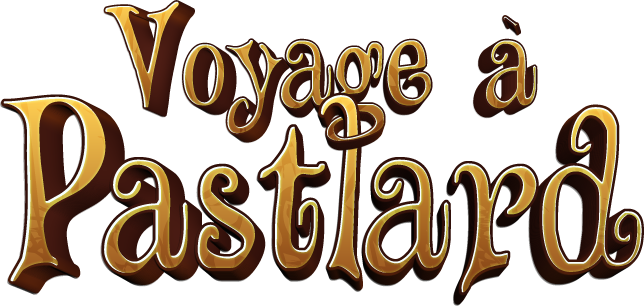
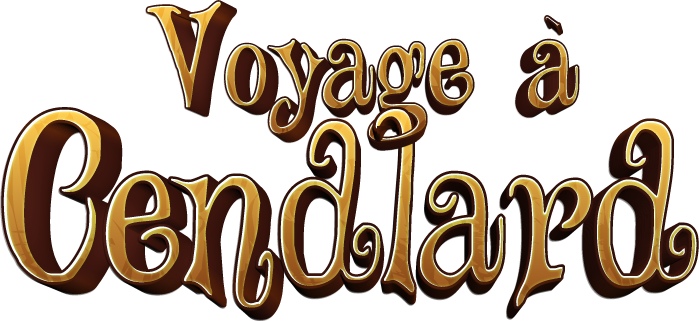
Mise à jour des dépendances.

diff --git a/lib/widgets/main_widget.dart b/lib/widgets/main_widget.dart
@@ -2,8 +2,7 @@ import 'package:animate_do/animate_do.dart';
 import 'package:escape_game_kit/escape_game_kit.dart';
 import 'package:flutter/material.dart';
 import 'package:flutter_localizations/flutter_localizations.dart';
-import 'package:flutter_svg/flutter_svg.dart';
-import 'package:voyage_a_pastlard/widgets/title_screen.dart';
+import 'package:voyage_a_cendlard/widgets/title_screen.dart';
 
 final GlobalKey<NavigatorState> navigatorKey = GlobalKey<NavigatorState>();
 
@@ -32,22 +31,22 @@ class _MainWidgetState extends State<MainWidget> {
     ]) {
       precacheImage(AssetImage(asset), context);
     }
-    for (String asset in [
-      // 'assets/interactables/arrow.svg',
-      // 'assets/objects/eight-key.svg',
-      // 'assets/objects/clover-key.svg',
-      // 'assets/objects/mouth-key.svg',
-      // 'assets/padlocks/caesar-1.svg',
-      // 'assets/padlocks/caesar-2.svg',
-    ]) {
-      precachePicture(ExactAssetPicture(SvgPicture.svgStringDecoderBuilder, asset), context);
-    }
+    // for (String asset in [
+    //   'assets/interactables/arrow.svg',
+    //   'assets/objects/eight-key.svg',
+    //   'assets/objects/clover-key.svg',
+    //   'assets/objects/mouth-key.svg',
+    //   'assets/padlocks/caesar-1.svg',
+    //   'assets/padlocks/caesar-2.svg',
+    // ]) {
+    //   precachePicture(ExactAssetPicture(SvgPicture.svgStringDecoderBuilder, asset), context);
+    // }
   }
 
   @override
   Widget build(BuildContext context) => MaterialApp(
         navigatorKey: navigatorKey,
-        title: 'Voyage à Pastlard',
+        title: 'Voyage à Cendlard',
         theme: ThemeData(
           primarySwatch: Colors.deepPurple,
           scrollbarTheme: ScrollbarThemeData(thumbVisibility: MaterialStateProperty.all(true)),
@@ -117,7 +116,7 @@ mathématicus !''',
                         ),
                       ),
                     ],
-                    style: Theme.of(context).textTheme.bodyText2?.copyWith(
+                    style: Theme.of(context).textTheme.bodyMedium?.copyWith(
                           color: Colors.white,
                         ),
                   ),

diff --git a/lib/game/rooms/bedroom.dart b/lib/game/rooms/bedroom.dart
@@ -1,10 +1,10 @@
 import 'dart:math';
 
 import 'package:escape_game_kit/escape_game_kit.dart';
-import 'package:voyage_a_pastlard/game/objects/hericorne_claw.dart';
-import 'package:voyage_a_pastlard/game/rooms/lobby.dart';
-import 'package:voyage_a_pastlard/widgets/cauldron_dialog_content.dart';
-import 'package:voyage_a_pastlard/widgets/object_found_dialog_content.dart';
+import 'package:voyage_a_cendlard/game/objects/hericorne_claw.dart';
+import 'package:voyage_a_cendlard/game/rooms/lobby.dart';
+import 'package:voyage_a_cendlard/widgets/cauldron_dialog_content.dart';
+import 'package:voyage_a_cendlard/widgets/object_found_dialog_content.dart';
 
 class BedroomRoom extends Room {
   static const String roomId = 'bedroom';
@@ -18,9 +18,9 @@ class BedroomRoom extends Room {
                 content: '''<h1>🪄 Bienvenue !</h1>
                 <p>
                   <em>
-                    Vous êtes élève à l'école Pastlard, un établissement magique peuplé de jeunes apprentis sorciers.
+                    Vous êtes élève à l'école Cendlard, un établissement magique peuplé de jeunes apprentis sorciers.
                     <br>Vous vous êtes réveillé en pleine nuit car, demain, vous avez interrogation de mathématicus,
-                    la matière tant redoutée par les élèves de Pastlard... Et vous n'avez pas du tout révisé !
+                    la matière tant redoutée par les élèves de Cendlard... Et vous n'avez pas du tout révisé !
                   </em>
                 </p>
                 <p>~</p>

diff --git a/lib/game/game.dart b/lib/game/game.dart
@@ -1,16 +1,16 @@
 import 'package:escape_game_kit/escape_game_kit.dart';
-import 'package:voyage_a_pastlard/game/rooms/abandoned_classroom.dart';
-import 'package:voyage_a_pastlard/game/rooms/abandoned_library.dart';
-import 'package:voyage_a_pastlard/game/rooms/bedroom.dart';
-import 'package:voyage_a_pastlard/game/rooms/forgiven_forest.dart';
-import 'package:voyage_a_pastlard/game/rooms/lobby.dart';
-import 'package:voyage_a_pastlard/game/rooms/principal_office.dart';
-import 'package:voyage_a_pastlard/game/rooms/storage.dart';
-import 'package:voyage_a_pastlard/game/rooms/teacher_bedroom.dart';
-import 'package:voyage_a_pastlard/game/rooms/teachers_bedrooms.dart';
+import 'package:voyage_a_cendlard/game/rooms/abandoned_classroom.dart';
+import 'package:voyage_a_cendlard/game/rooms/abandoned_library.dart';
+import 'package:voyage_a_cendlard/game/rooms/bedroom.dart';
+import 'package:voyage_a_cendlard/game/rooms/forgiven_forest.dart';
+import 'package:voyage_a_cendlard/game/rooms/lobby.dart';
+import 'package:voyage_a_cendlard/game/rooms/principal_office.dart';
+import 'package:voyage_a_cendlard/game/rooms/storage.dart';
+import 'package:voyage_a_cendlard/game/rooms/teacher_bedroom.dart';
+import 'package:voyage_a_cendlard/game/rooms/teachers_bedrooms.dart';
 
-class VoyageAPastlardGame extends EscapeGame {
-  VoyageAPastlardGame() : super(
+class VoyageACendlardGame extends EscapeGame {
+  VoyageACendlardGame() : super(
     inventory: Inventory(
       title: 'Inventaire',
       emptyMessage: "Il n'y a rien dans votre inventaire."

diff --git a/lib/game/rooms/principal_office.dart b/lib/game/rooms/principal_office.dart
@@ -1,11 +1,11 @@
 import 'package:escape_game_kit/escape_game_kit.dart';
 import 'package:flutter/material.dart';
 import 'package:flutter_widget_from_html_core/flutter_widget_from_html_core.dart';
-import 'package:voyage_a_pastlard/game/objects/teachers_rooms_key.dart';
-import 'package:voyage_a_pastlard/game/rooms/abandoned_classroom.dart';
-import 'package:voyage_a_pastlard/game/rooms/lobby.dart';
-import 'package:voyage_a_pastlard/game/rooms/storage.dart';
-import 'package:voyage_a_pastlard/widgets/object_found_dialog_content.dart';
+import 'package:voyage_a_cendlard/game/objects/teachers_rooms_key.dart';
+import 'package:voyage_a_cendlard/game/rooms/abandoned_classroom.dart';
+import 'package:voyage_a_cendlard/game/rooms/lobby.dart';
+import 'package:voyage_a_cendlard/game/rooms/storage.dart';
+import 'package:voyage_a_cendlard/widgets/object_found_dialog_content.dart';
 
 class PrincipalOfficeRoom extends Room {
   static const String roomId = 'principal-office';
@@ -65,7 +65,7 @@ class PrincipalOfficeRoom extends Room {
                           child: HtmlWidget('''
                             <div align="center">
                               <p>
-                                <em>Il y a une post-it sur le bureau, mais le texte est effacé par endroits...</em>
+                                <em>Il y a un post-it sur le bureau, mais le texte est effacé par endroits...</em>
                               </p>
                               <p>~</p>
                             </div>

diff --git a/lib/main.dart b/lib/main.dart
@@ -1,12 +1,12 @@
 import 'package:escape_game_kit/escape_game_kit.dart';
 import 'package:flutter/foundation.dart';
 import 'package:flutter/material.dart';
-import 'package:voyage_a_pastlard/game/game.dart';
-import 'package:voyage_a_pastlard/game/padlocks/equations_padlock.dart';
-import 'package:voyage_a_pastlard/game/padlocks/find_x_padlock.dart';
-import 'package:voyage_a_pastlard/game/padlocks/text_padlock.dart';
-import 'package:voyage_a_pastlard/game/padlocks/valid_object_padlock.dart';
-import 'package:voyage_a_pastlard/widgets/main_widget.dart';
+import 'package:voyage_a_cendlard/game/game.dart';
+import 'package:voyage_a_cendlard/game/padlocks/equations_padlock.dart';
+import 'package:voyage_a_cendlard/game/padlocks/find_x_padlock.dart';
+import 'package:voyage_a_cendlard/game/padlocks/text_padlock.dart';
+import 'package:voyage_a_cendlard/game/padlocks/valid_object_padlock.dart';
+import 'package:voyage_a_cendlard/widgets/main_widget.dart';
 import 'package:window_manager/window_manager.dart';
 
 void main() {
@@ -15,7 +15,7 @@ void main() {
     adjustWindowSize();
   }
   registerPadlocks();
-  VoyageAPastlardGame escapeGame = VoyageAPastlardGame();
+  VoyageACendlardGame escapeGame = VoyageACendlardGame();
   runApp(MainWidget(escapeGame: escapeGame));
 }
 

diff --git a/lib/widgets/cauldron_dialog_content.dart b/lib/widgets/cauldron_dialog_content.dart
@@ -3,13 +3,13 @@ import 'package:flutter/foundation.dart';
 import 'package:flutter/material.dart';
 import 'package:flutter_svg/flutter_svg.dart';
 import 'package:flutter_widget_from_html_core/flutter_widget_from_html_core.dart';
-import 'package:voyage_a_pastlard/game/objects/champinum_enigma.dart';
-import 'package:voyage_a_pastlard/game/objects/enchanted_spices.dart';
-import 'package:voyage_a_pastlard/game/objects/happiness_mirror.dart';
-import 'package:voyage_a_pastlard/game/objects/hericorne_claw.dart';
-import 'package:voyage_a_pastlard/game/objects/ingredient.dart';
-import 'package:voyage_a_pastlard/game/objects/scaribo.dart';
-import 'package:voyage_a_pastlard/game/objects/sleeping_potion.dart';
+import 'package:voyage_a_cendlard/game/objects/champinum_enigma.dart';
+import 'package:voyage_a_cendlard/game/objects/enchanted_spices.dart';
+import 'package:voyage_a_cendlard/game/objects/happiness_mirror.dart';
+import 'package:voyage_a_cendlard/game/objects/hericorne_claw.dart';
+import 'package:voyage_a_cendlard/game/objects/ingredient.dart';
+import 'package:voyage_a_cendlard/game/objects/scaribo.dart';
+import 'package:voyage_a_cendlard/game/objects/sleeping_potion.dart';
 
 class CauldronDialogContent extends StatefulWidget {
   final Inventory inventory;

diff --git a/lib/game/rooms/lobby.dart b/lib/game/rooms/lobby.dart
@@ -1,11 +1,11 @@
 import 'package:escape_game_kit/escape_game_kit.dart';
-import 'package:voyage_a_pastlard/game/objects/teachers_rooms_key.dart';
-import 'package:voyage_a_pastlard/game/padlocks/equations_padlock.dart';
-import 'package:voyage_a_pastlard/game/padlocks/text_padlock.dart';
-import 'package:voyage_a_pastlard/game/rooms/bedroom.dart';
-import 'package:voyage_a_pastlard/game/rooms/forgiven_forest.dart';
-import 'package:voyage_a_pastlard/game/rooms/principal_office.dart';
-import 'package:voyage_a_pastlard/game/rooms/teachers_bedrooms.dart';
+import 'package:voyage_a_cendlard/game/objects/teachers_rooms_key.dart';
+import 'package:voyage_a_cendlard/game/padlocks/equations_padlock.dart';
+import 'package:voyage_a_cendlard/game/padlocks/text_padlock.dart';
+import 'package:voyage_a_cendlard/game/rooms/bedroom.dart';
+import 'package:voyage_a_cendlard/game/rooms/forgiven_forest.dart';
+import 'package:voyage_a_cendlard/game/rooms/principal_office.dart';
+import 'package:voyage_a_cendlard/game/rooms/teachers_bedrooms.dart';
 
 class LobbyRoom extends Room {
   static const String roomId = 'lobby';

diff --git a/lib/game/rooms/forgiven_forest.dart b/lib/game/rooms/forgiven_forest.dart
@@ -1,12 +1,12 @@
 import 'dart:math';
 
 import 'package:escape_game_kit/escape_game_kit.dart';
-import 'package:voyage_a_pastlard/game/objects/champinum_enigma.dart';
-import 'package:voyage_a_pastlard/game/objects/forest_cards.dart';
-import 'package:voyage_a_pastlard/game/objects/scaribo.dart';
-import 'package:voyage_a_pastlard/game/padlocks/text_padlock.dart';
-import 'package:voyage_a_pastlard/game/rooms/lobby.dart';
-import 'package:voyage_a_pastlard/widgets/object_found_dialog_content.dart';
+import 'package:voyage_a_cendlard/game/objects/champinum_enigma.dart';
+import 'package:voyage_a_cendlard/game/objects/forest_cards.dart';
+import 'package:voyage_a_cendlard/game/objects/scaribo.dart';
+import 'package:voyage_a_cendlard/game/padlocks/text_padlock.dart';
+import 'package:voyage_a_cendlard/game/rooms/lobby.dart';
+import 'package:voyage_a_cendlard/widgets/object_found_dialog_content.dart';
 
 class ForgivenForestRoom extends Room {
   static const String roomId = 'forgiven-forest';

diff --git a/web/index.html b/web/index.html
@@ -18,18 +18,18 @@
 
   <meta charset="UTF-8">
   <meta content="IE=Edge" http-equiv="X-UA-Compatible">
-  <meta name="description" content="Voyage à Pastlard.">
+  <meta name="description" content="Voyage à Cendlard.">
 
   <!-- iOS meta tags & icons -->
   <meta name="apple-mobile-web-app-capable" content="yes">
   <meta name="apple-mobile-web-app-status-bar-style" content="black">
-  <meta name="apple-mobile-web-app-title" content="Voyage à Pastlard">
+  <meta name="apple-mobile-web-app-title" content="Voyage à Cendlard">
   <link rel="apple-touch-icon" href="icons/Icon-192.png">
 
   <!-- Favicon -->
   <link rel="icon" type="image/png" href="favicon.png"/>
 
-  <title>Voyage à Pastlard</title>
+  <title>Voyage à Cendlard</title>
   <link rel="manifest" href="manifest.json">
 
   <script>

diff --git a/lib/game/rooms/storage.dart b/lib/game/rooms/storage.dart
@@ -1,8 +1,8 @@
 import 'package:escape_game_kit/escape_game_kit.dart';
-import 'package:voyage_a_pastlard/game/objects/enchanted_spices.dart';
-import 'package:voyage_a_pastlard/game/objects/purple_crystals.dart';
-import 'package:voyage_a_pastlard/game/rooms/principal_office.dart';
-import 'package:voyage_a_pastlard/widgets/object_found_dialog_content.dart';
+import 'package:voyage_a_cendlard/game/objects/enchanted_spices.dart';
+import 'package:voyage_a_cendlard/game/objects/purple_crystals.dart';
+import 'package:voyage_a_cendlard/game/rooms/principal_office.dart';
+import 'package:voyage_a_cendlard/widgets/object_found_dialog_content.dart';
 
 class StorageRoom extends Room {
   static const String roomId = 'storage';

diff --git a/web/game.html b/web/game.html
@@ -3,12 +3,12 @@
 <head>
     <meta charset="UTF-8">
     <meta content="IE=Edge" http-equiv="X-UA-Compatible">
-    <meta name="description" content="Voyage à Pastlard.">
+    <meta name="description" content="Voyage à Cendlard.">
 
     <!-- iOS meta tags & icons -->
     <meta name="apple-mobile-web-app-capable" content="yes">
     <meta name="apple-mobile-web-app-status-bar-style" content="black">
-    <meta name="apple-mobile-web-app-title" content="Voyage à Pastlard">
+    <meta name="apple-mobile-web-app-title" content="Voyage à Cendlard">
     <link rel="apple-touch-icon" href="icons/Icon-192.png">
 
     <!-- Favicon -->

diff --git a/lib/game/rooms/abandoned_classroom.dart b/lib/game/rooms/abandoned_classroom.dart
@@ -1,7 +1,7 @@
 import 'package:escape_game_kit/escape_game_kit.dart';
-import 'package:voyage_a_pastlard/game/objects/happiness_mirror.dart';
-import 'package:voyage_a_pastlard/game/rooms/principal_office.dart';
-import 'package:voyage_a_pastlard/widgets/object_found_dialog_content.dart';
+import 'package:voyage_a_cendlard/game/objects/happiness_mirror.dart';
+import 'package:voyage_a_cendlard/game/rooms/principal_office.dart';
+import 'package:voyage_a_cendlard/widgets/object_found_dialog_content.dart';
 
 class AbandonedClassroomRoom extends Room {
   static const String roomId = 'abandoned-classroom';
